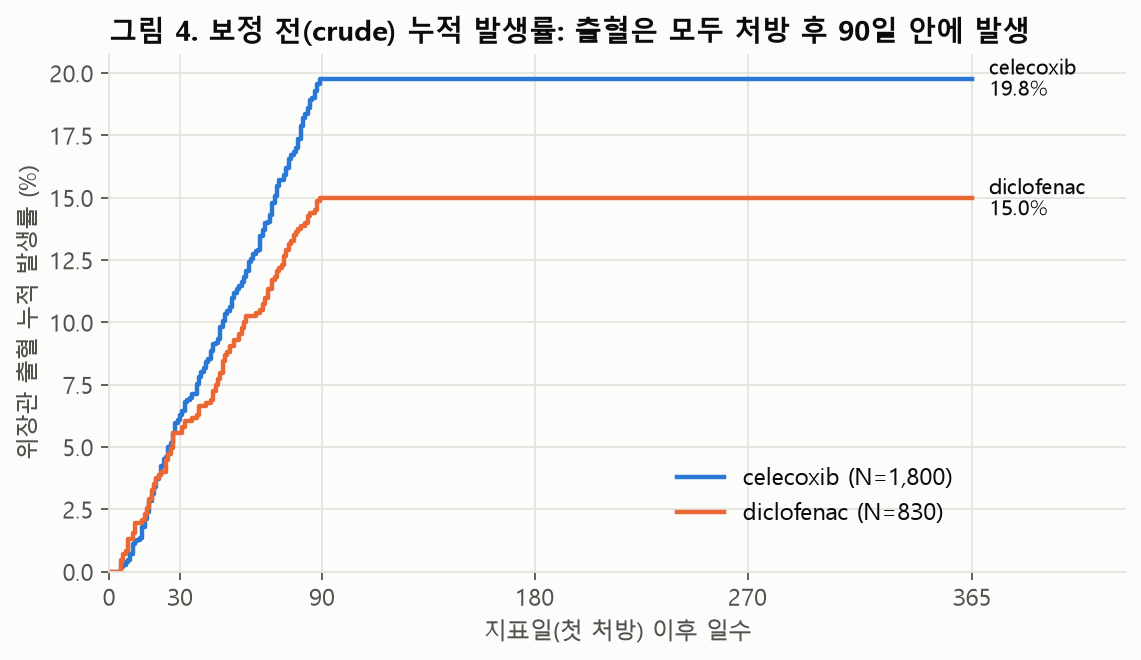
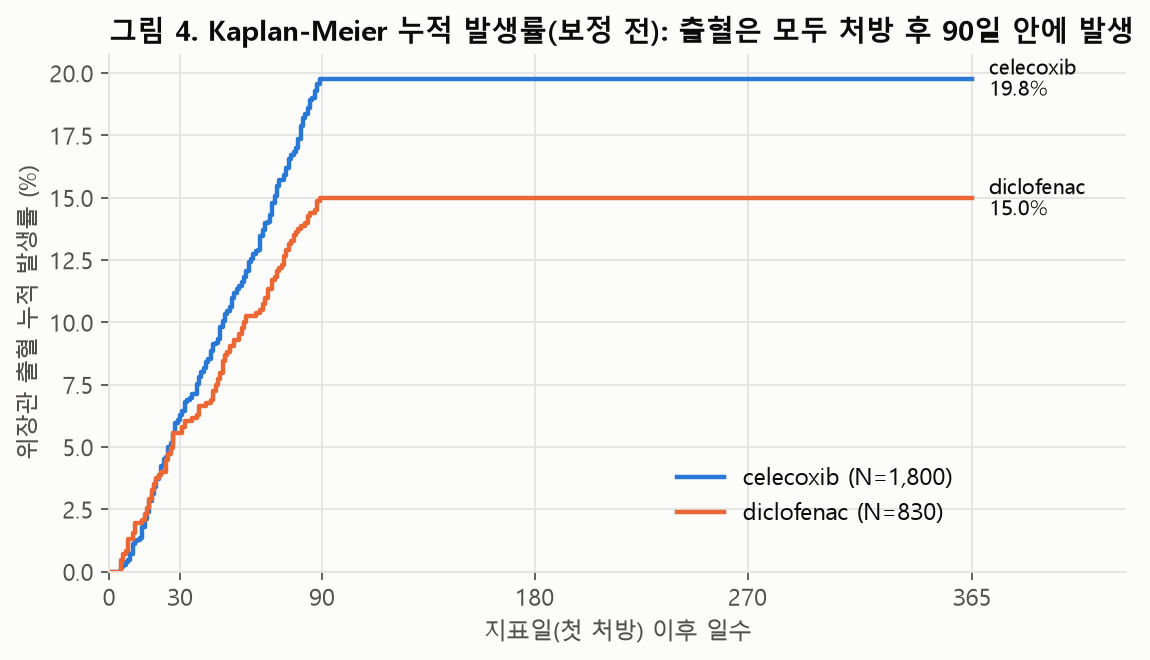
위험도비에 신뢰구간 추가, 문서 수치·용어 정정
- 위험도비를 반올림한 백분율이 아닌 원값에서 계산, 95% 신뢰구간과 Mantel-Haenszel 값 추가
- README: SQL 개수(21개), Eunomia 방문 유형 서술, 위험도비·위험비 용어 구분,
  그림 4(Kaplan-Meier)와 표(단순 비율)의 차이 설명
- b04 정렬에 동률 기준 추가 (실행마다 순서가 바뀌지 않도록)
- 주석과 설계 노트 제목 정리

diff --git a/docs/design_notes.md b/docs/design_notes.md
@@ -32,86 +32,86 @@
 | ETL | 원본 EMR을 CDM 형식으로 변환·적재하는 과정 |
 | ACHILLES | CDM 데이터베이스 전체를 자동으로 요약하는 OHDSI 도구 |
 
-## 설계 결정 Q&A
+## 설계 결정
 
-### Q. 왜 신규 사용자만 포함했나요?
+### 신규 사용자만 포함한 이유
 이미 오래 복용 중인 사람은 초기에 부작용을 겪은 사람이 빠져나간 뒤 남은 집단이라, 포함하면 약이 실제보다 안전해 보입니다.
 또 기존 복용자는 "언제부터 추적을 시작할지"가 모호하고, 기저 특성이 이미 약의 영향을 받은 상태일 수 있습니다.
 구현은 `ROW_NUMBER() OVER (PARTITION BY person_id ORDER BY 처방일)`로 환자별 첫 처방만 남겼습니다 (`c01`).
 
-### Q. `MIN()`으로도 첫 처방일을 구할 수 있는데 왜 `ROW_NUMBER`를 썼나요?
+### `MIN()` 대신 `ROW_NUMBER`로 첫 처방일을 구한 이유
 날짜만 필요하면 `MIN()`으로 충분합니다. 여기서는 "그 첫 처방이 어떤 성분이었는지"를 같은 행에서 가져와야 해서 행 자체를 골라야 했습니다.
 같은 날 두 약이 있을 때 결과가 실행마다 달라지지 않도록 2차 정렬 키도 넣었습니다.
 
-### Q. 관찰기간 조건은 왜 필요한가요?
+### 관찰기간 조건이 필요한 이유
 기록이 없다는 것이 "사건이 없었다"는 뜻인지 "그 기간에 이 병원에 다니지 않았다"는 뜻인지 구분하기 위해서입니다.
 지표일 이전 365일이 관찰기간에 포함되어야 그 기간에 처방 이력이 없었다는 것을 믿을 수 있습니다.
 이 데이터에서는 지표일이 관찰기간 밖인 환자가 64명 있어 제외했습니다.
 
-### Q. 약물을 어떻게 찾았나요? 약 이름으로 검색했나요?
+### 약물을 찾은 방법 — 이름 검색이 아닌 성분 롤업
 `drug_exposure`에는 약이 "Ibuprofen 200 MG Oral Tablet"처럼 제품 단위로 들어 있습니다.
 이름을 `LIKE`로 검색하면 누락이나 오탐이 생기므로, `concept_ancestor` 테이블에서 성분 concept의 하위 제품을 모두 가져왔습니다.
 성분 concept ID 하나만 알면 용량과 제형이 다른 제품이 전부 잡힙니다 (`b04`, `c01`).
 
-### Q. 기저 특성을 만들 때 가장 주의한 점은?
+### 기저 특성을 만들 때 가장 주의한 점
 지표일 이전 정보만 쓰는 것입니다. 지표일 이후 정보가 섞이면 미래 정보로 과거를 설명하게 됩니다. 머신러닝의 데이터 누수와 같은 문제입니다.
 그래서 `c04`의 모든 조인 조건에 `사건일 < cohort_start_date`를 넣었습니다.
 만성 질환은 전체 과거를, 병용 약물과 입원은 최근 365일을 봤습니다.
 
-### Q. 보정 전 결과와 층화 결과가 왜 달랐나요?
+### 보정 전 결과와 층화 결과가 달랐던 이유
 celecoxib 군에 소화성 궤양 과거력이 있는 환자가 36.6%, diclofenac 군은 15.9%였습니다.
 궤양 과거력이 있으면 출혈 위험이 원래 높으므로(과거력 있음 33.7% 대 없음 11.6%), 약의 효과와 환자 구성의 차이가 섞여 있었습니다.
 층화하니 과거력 없는 층은 9.8% 대 14.5%, 있는 층은 36.9% 대 17.4%로 층마다 방향이 달랐습니다.
 다만 합성 데이터이고 변수 하나로만 층화했기 때문에 이 숫자 자체를 약의 효과로 해석하지는 않습니다.
 
-### Q. 왜 p-value 대신 SMD를 봤나요?
+### p-value 대신 SMD를 본 이유
 p-value는 표본이 크면 의미 없는 작은 차이에도 유의하게 나옵니다.
 균형을 볼 때 알고 싶은 것은 "차이가 통계적으로 유의한가"가 아니라 "차이가 얼마나 큰가"이므로 표본 크기에 영향받지 않는 SMD를 씁니다.
 
-### Q. 누적 발생률과 인년당 발생률을 둘 다 계산한 이유는?
+### 누적 발생률과 인년당 발생률을 둘 다 계산한 이유
 누적 발생률(사건 수 ÷ 환자 수)은 이해하기 쉽지만 모든 환자를 같은 기간 추적했다고 가정합니다.
 실제로는 관찰기간이 일찍 끝나는 환자가 있어서, 추적 기간의 합을 분모로 쓰는 인년당 발생률을 함께 냈습니다.
 Kaplan-Meier도 같은 이유로 썼고, 원리를 설명할 수 있도록 라이브러리 없이 구현했습니다.
 
-### Q. SQL 결과가 맞는지 어떻게 확인했나요?
+### SQL 결과를 검증한 방법
 네 가지 방법을 썼습니다.
 1. 처방을 연속 복용 기간으로 묶는 로직(`p04`)을 직접 짜고, CDM에 미리 계산되어 있는 `drug_era` 테이블과 비교했습니다. 4,304건으로 일치했습니다.
 2. 제외 조건을 `NOT EXISTS`, `LEFT JOIN`, `EXCEPT` 세 방식으로 짜서 같은 숫자가 나오는지 봤습니다 (`p06`).
 3. ACHILLES가 계산한 약물별 환자 수가 제 코호트 인원과 일치하는지 확인했습니다.
 4. 실행 스크립트에 "환자당 1행인가", "코호트에 중복 환자가 없는가"를 `assert`로 넣었습니다.
 
-### Q. 조인하다가 숫자가 틀린 적이 있나요? 어떻게 방지하나요?
+### 조인에서 숫자가 틀리는 경우와 방지 방법
 진단과 처방처럼 환자당 여러 행인 테이블 두 개를 한꺼번에 조인하면 행이 곱으로 늘어나 건수가 부풀려집니다.
 오류 없이 그럴듯한 숫자가 나오기 때문에 위험합니다.
 테이블별로 먼저 환자당 1행으로 집계한 다음 조인하고(`i02`), 결과 행 수가 환자 수와 같은지 확인합니다.
 존재 여부만 필요할 때는 조인 대신 `EXISTS`를 씁니다.
 
-### Q. 데이터에서 발견한 문제가 있었나요?
+### 데이터에서 발견한 문제
 - `observation_period`에 `person`에 없는 환자 행이 2,649개 있어서, 그대로 세면 환자 수가 두 배로 나옵니다.
 - 처방의 99.7%가 방문 기록과 연결되지 않아 방문 단위 분석을 할 수 없었습니다.
 - 검사 결과 수치가 전부 비어 있었습니다.
 - 대상 약물의 `days_supply`가 모두 0이라 복용 기간을 알 수 없었습니다. 그래서 복용 중인 기간만 추적하는 대신, 시작한 약 기준으로 1년을 추적하는 방식을 택했습니다.
 
-### Q. ACHILLES는 무엇이고 왜 돌렸나요?
+### ACHILLES의 역할과 실행한 이유
 CDM 데이터베이스의 인구 구성, 진단·약물 빈도, 관찰기간 분포 등을 표준화된 분석 수백 개로 자동 요약하는 도구입니다.
 병원이 CDM을 구축한 뒤 변환이 제대로 됐는지 확인할 때 씁니다.
 제가 손으로 짠 요약 쿼리의 숫자를 교차 확인하는 용도로도 썼습니다.
 DuckDB에서는 결과 적재 단계에서 컬럼 대소문자 오류가 나서, ACHILLES만 SQLite 판에서 실행했습니다.
 
-### Q. MIMIC 데이터는 왜 추가했나요?
+### MIMIC 데이터를 추가한 이유
 CDM의 목적이 "같은 분석 코드를 여러 기관에서 돌리는 것"이라 실제로 그렇게 되는지 확인하고 싶었습니다.
 같은 SQL 파일이 수정 없이 실행됐습니다.
 동시에 한계도 확인했습니다. MIMIC demo 공개본에는 표준 용어 사전이 빠져 있어 concept 이름 조인이 되지 않았고,
 중환자실 데이터라 관찰기간 중앙값이 65일로 짧아서 Eunomia에서 한 1년 추적 코호트 설계를 그대로 적용할 수 없었습니다.
 
-### Q. 실제 병원 데이터였다면 무엇이 달라졌을까요?
+### 실제 병원 데이터라면 달라질 점
 - 선정기준마다 탈락자가 많이 생기고, 그 숫자를 근거로 기준을 조정해야 했을 것입니다.
 - 진단 하나가 아니라 하위 개념을 포함한 개념 집합을 임상가와 함께 정의해야 합니다.
 - 환자당 관찰기간이 여러 개일 수 있고, 결측과 입력 오류를 처리해야 합니다.
 - 수백만 명 규모에서는 쿼리 성능을 고려해야 합니다.
 - 교란 보정을 위해 성향점수 매칭 같은 방법이 필요합니다.
 
-### Q. 이 프로젝트의 한계는?
+### 이 프로젝트의 한계
 합성 데이터라 임상적 결론을 낼 수 없고, 교란 보정은 변수 하나로 층화한 수준입니다.
 실제 복용 기간을 알 수 없어 약 중단이나 변경을 반영하지 못했습니다.
 다음 단계로는 성향점수 매칭과 Cox 모형, 그리고 같은 코호트를 OHDSI ATLAS로 정의해 제 SQL 결과와 비교하는 것을 생각하고 있습니다.
